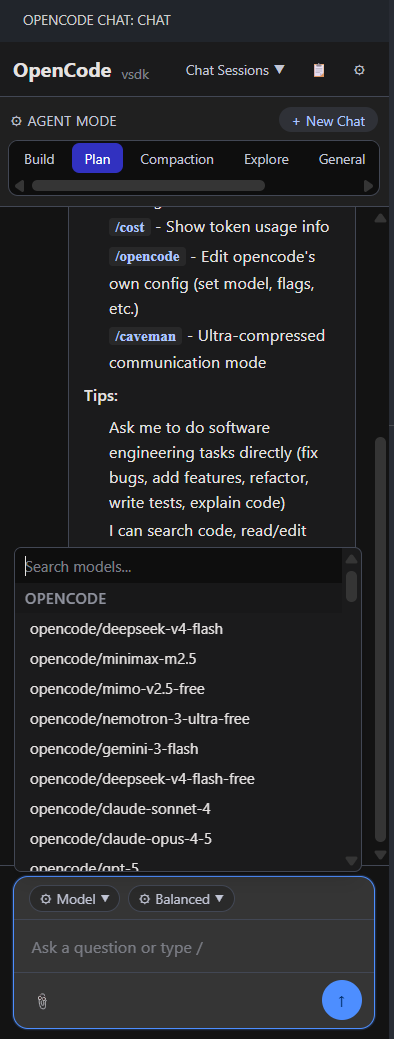
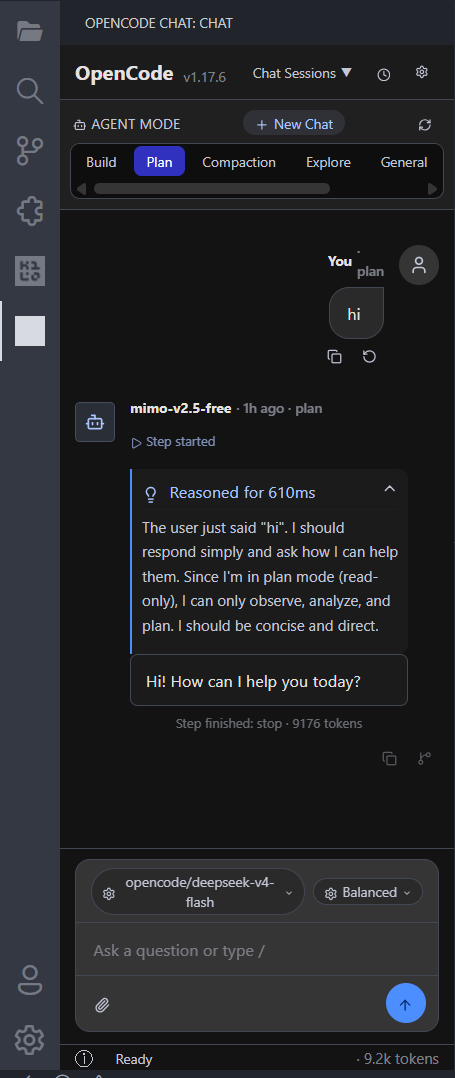
chore: release v0.2.0 and update branding
Update package name, display name, and publisher. Refactor release
script to enforce strict numeric semver and update media assets.

diff --git a/release.js b/release.js
@@ -1,13 +1,14 @@
 /**
  * release.js — Fully CLI-driven release script.
  *
+ * The marketplace requires strict numeric semver (e.g. 0.2.0, 1.0.0).
+ * Use "preview": true in package.json to mark pre-release versions.
+ *
  * Usage:
- *   node release.js                         # patch bump (0.1.0 -> 0.1.1)
- *   node release.js minor                   # 0.2.0
+ *   node release.js                         # patch bump (0.2.0 -> 0.2.1)
+ *   node release.js minor                   # 0.3.0
  *   node release.js major                   # 1.0.0
- *   node release.js beta                    # next beta (0.1.1-beta.1, 0.1.1-beta.2, …)
- *   node release.js 0.2.0                   # explicit version
- *   node release.js 0.2.0-beta.1            # explicit pre-release
+ *   node release.js 0.3.0                   # explicit version
  *   node release.js --dry-run               # preview only, no changes
  *   node release.js --force                 # bypass branch check
  *
@@ -22,7 +23,7 @@ const path = require("path");
 const PKG_PATH = path.join(__dirname, "package.json");
 const TAG_PREFIX = "v";
 const args = process.argv.slice(2);
-const BUMP = args.find(a => /^[\d][\d.]*(-[\w.]+)?$/u.test(a) || /^(patch|minor|major|beta)$/.test(a)) || "patch";
+const BUMP = args.find(a => /^\d+\.\d+\.\d+$/.test(a) || /^(patch|minor|major)$/.test(a)) || "patch";
 const DRY_RUN = args.includes("--dry-run");
 const FORCE = args.includes("--force");
 
@@ -61,23 +62,17 @@ function exec(cmd) {
 function resolveVersion(bump) {
   const pkg = readPkg();
   const current = pkg.version;
-  const m = current.match(/^(\d+)\.(\d+)\.(\d+)(?:-beta\.(\d+))?$/);
+  const m = current.match(/^(\d+)\.(\d+)\.(\d+)$/);
 
   function core(a, b, c) { return [a, b, c].join("."); }
 
   let next;
-  if (/^\d+\.\d+\.\d+(-[\w.]+)?$/.test(bump)) {
+  if (/^\d+\.\d+\.\d+$/.test(bump)) {
     next = bump;
   } else if (bump === "major") {
     next = core(+m[1] + 1, 0, 0);
   } else if (bump === "minor") {
     next = core(m[1], +m[2] + 1, 0);
-  } else if (bump === "beta") {
-    if (m[4]) {
-      next = core(m[1], m[2], m[3]) + "-beta." + (+m[4] + 1);
-    } else {
-      next = core(m[1], m[2], +m[3] + 1) + "-beta.1";
-    }
   } else {
     next = core(m[1], m[2], +m[3] + 1);
   }
